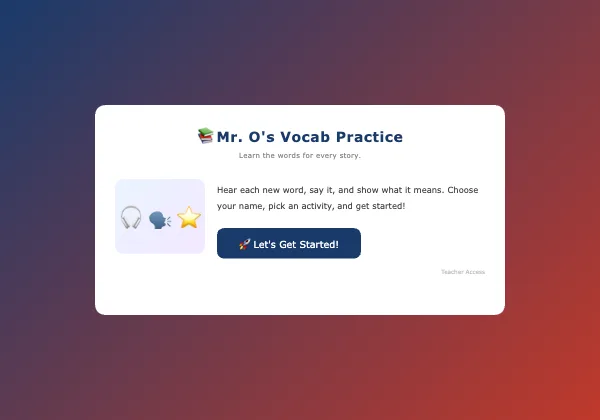
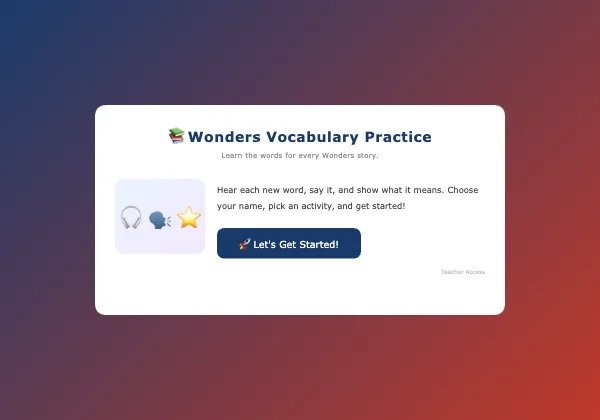
feat: Wonders Vocabulary Practice card — new name, Website tag, new picture
It holds every story's lists all year, so it joins the Website cards (last
in that group). New class cards go after it.

Changed region(s): [[0.27, 0.2786, 0.72, 0.4024]]

diff --git a/index.html b/index.html
@@ -364,14 +364,14 @@
             </div>
         </a>
 
-        <!-- One site for every story's vocab lists (opened 10/14). New stories are added inside the site, so this card stays. -->
+        <!-- One site for every story's vocab lists, all year, so it is a Website card (Marcos 10/14). New stories are added inside the site; this card stays. New class cards go AFTER this one. -->
         <a href="https://molivera1977.github.io/vocab-practice/" class="card" target="_blank">
             <div class="card-image">
-                <img loading="lazy" src="images/vocab-practice-2026.webp?v=2" alt="Mr. O's Vocab Practice">
+                <img loading="lazy" src="images/vocab-practice-2026.webp?v=3" alt="Wonders Vocabulary Practice">
             </div>
             <div class="card-content">
-                <div class="card-title">Vocab Practice</div>
-                <span class="card-tag">Reading</span>
+                <div class="card-title">Wonders Vocabulary Practice</div>
+                <span class="card-tag">Website</span>
             </div>
         </a>
 
